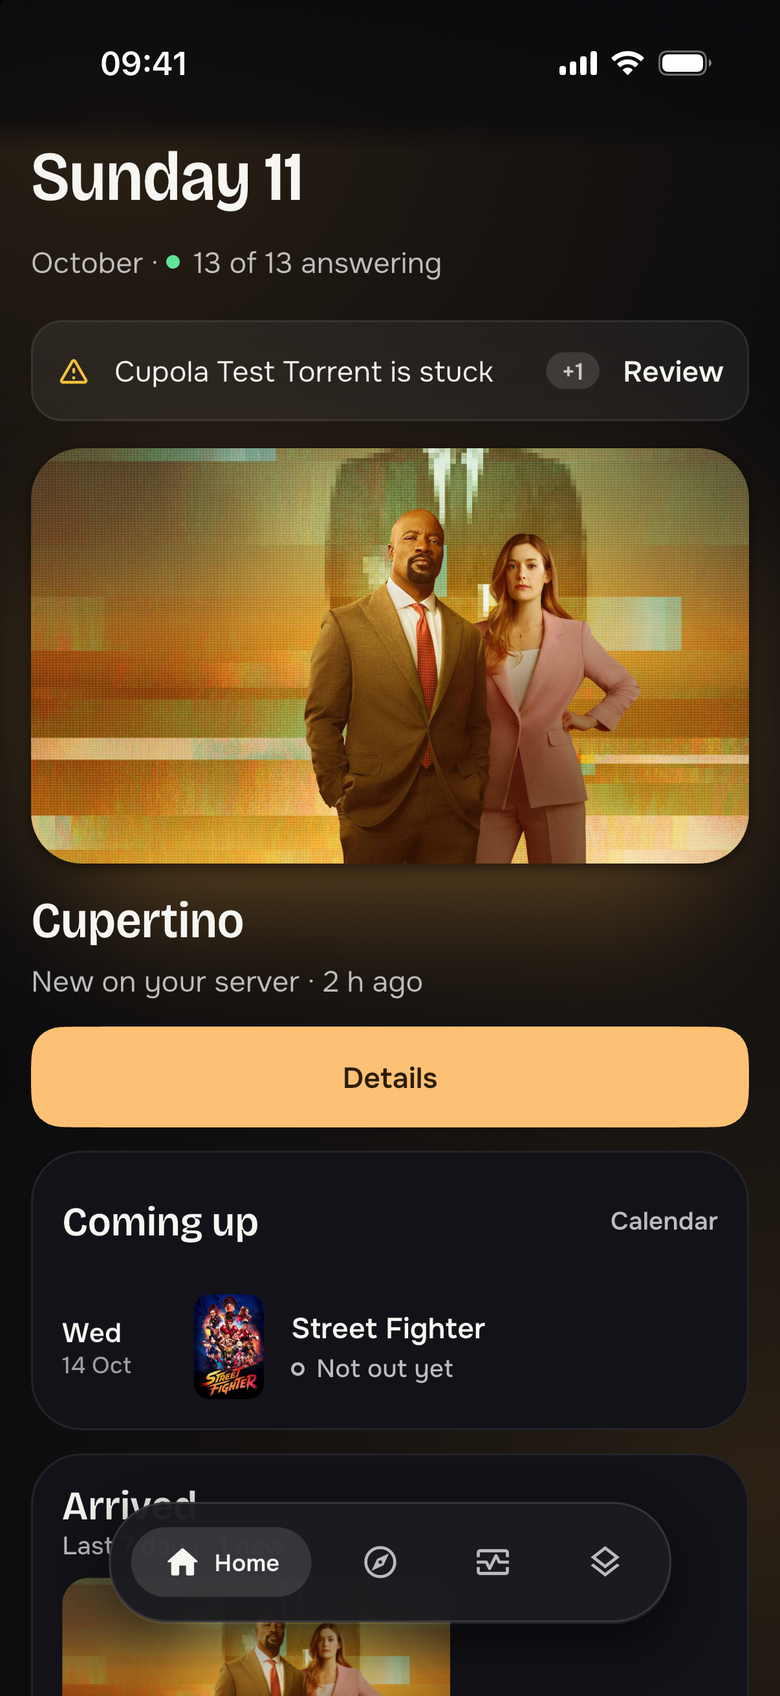
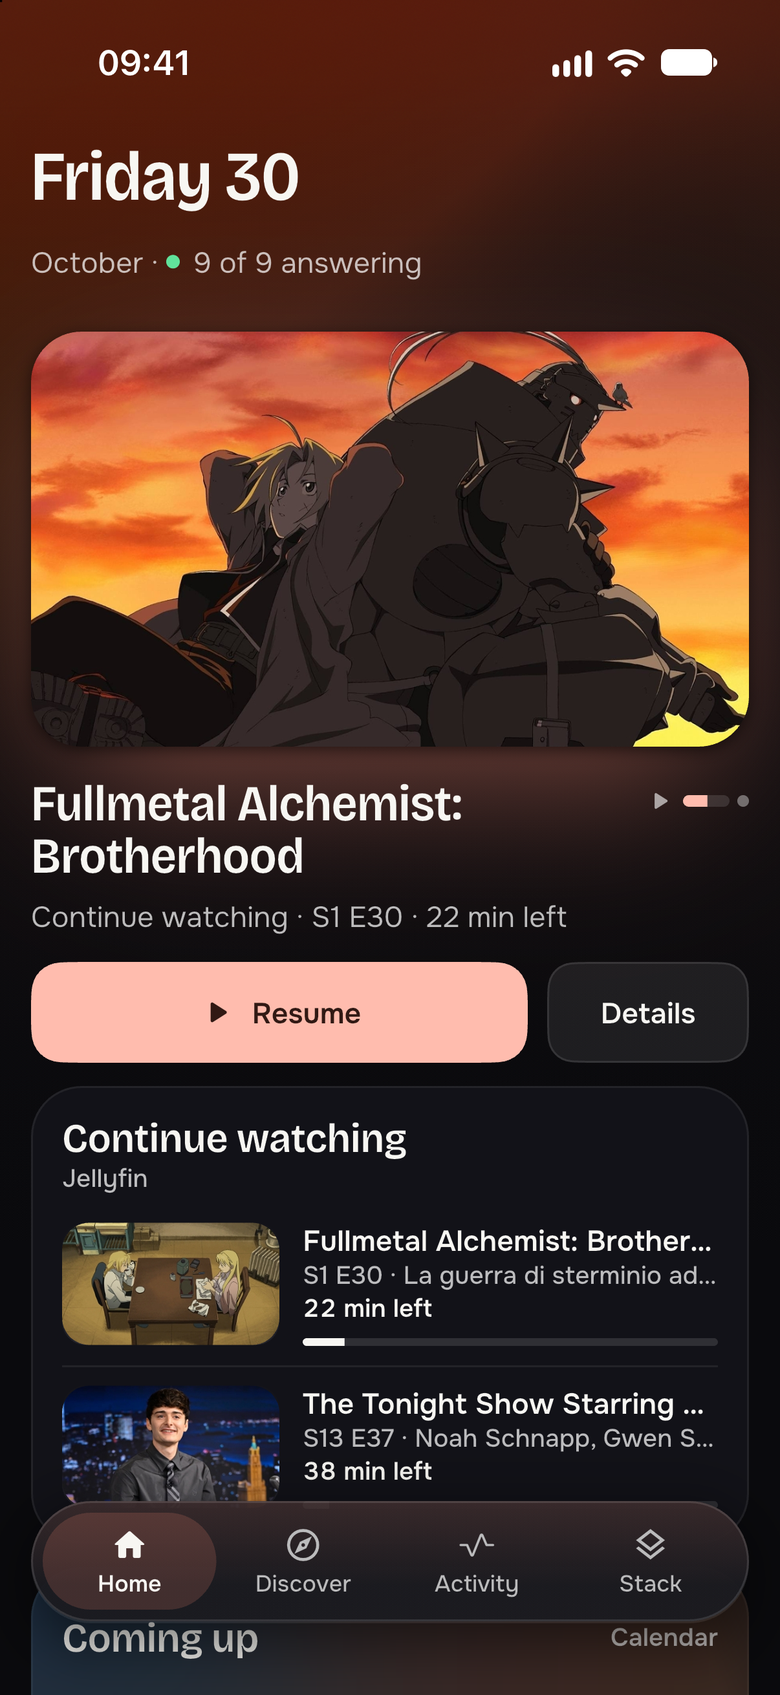
docs(readme): screenshots of a real library
Home, Activity, Sonarr and the light Home now show real titles and
artwork instead of the test lab's placeholders, and their captions say
what each screen shows.

diff --git a/README.md b/README.md
@@ -19,7 +19,7 @@ One native app for your entire self-hosted media stack, and the box it runs on.<
 
 <br/>
 
-<img src="screenshots/home.png" width="240" alt="Home: what is new on your server, what is coming up, and what needs you" />
+<img src="screenshots/home.png" width="240" alt="Home: what you were watching, what is new on your server and what is coming up" />
 <img src="screenshots/trending.png" width="240" alt="Discover: what is trending this week" />
 <img src="screenshots/title.png" width="240" alt="A movie's page, with its ratings and the button that adds it to Radarr" />
 
@@ -72,12 +72,12 @@ about all of them.
 
 <table>
   <tr>
-    <td align="center" width="33%"><img src="screenshots/home.png" alt="Home" /><br/><sub><b>Home</b> · what is new, what is next, what needs you</sub></td>
+    <td align="center" width="33%"><img src="screenshots/home.png" alt="Home" /><br/><sub><b>Home</b> · what you were watching, what is new, what is next</sub></td>
     <td align="center" width="33%"><img src="screenshots/discover.png" alt="Discover" /><br/><sub><b>Discover</b> · calendar, trending, every way in</sub></td>
     <td align="center" width="33%"><img src="screenshots/title.png" alt="A movie's page" /><br/><sub><b>A title</b> · one page to decide and act</sub></td>
   </tr>
   <tr>
-    <td align="center"><img src="screenshots/activity.png" alt="Activity" /><br/><sub><b>Activity</b> · what went wrong, and how to fix it</sub></td>
+    <td align="center"><img src="screenshots/activity.png" alt="Activity" /><br/><sub><b>Activity</b> · everyone's requests, and where they stand</sub></td>
     <td align="center"><img src="screenshots/stack.png" alt="Stack" /><br/><sub><b>Stack</b> · every service at a glance</sub></td>
     <td align="center"><img src="screenshots/sonarr.png" alt="Sonarr" /><br/><sub><b>Sonarr</b> · each service with its own tabs</sub></td>
   </tr>
